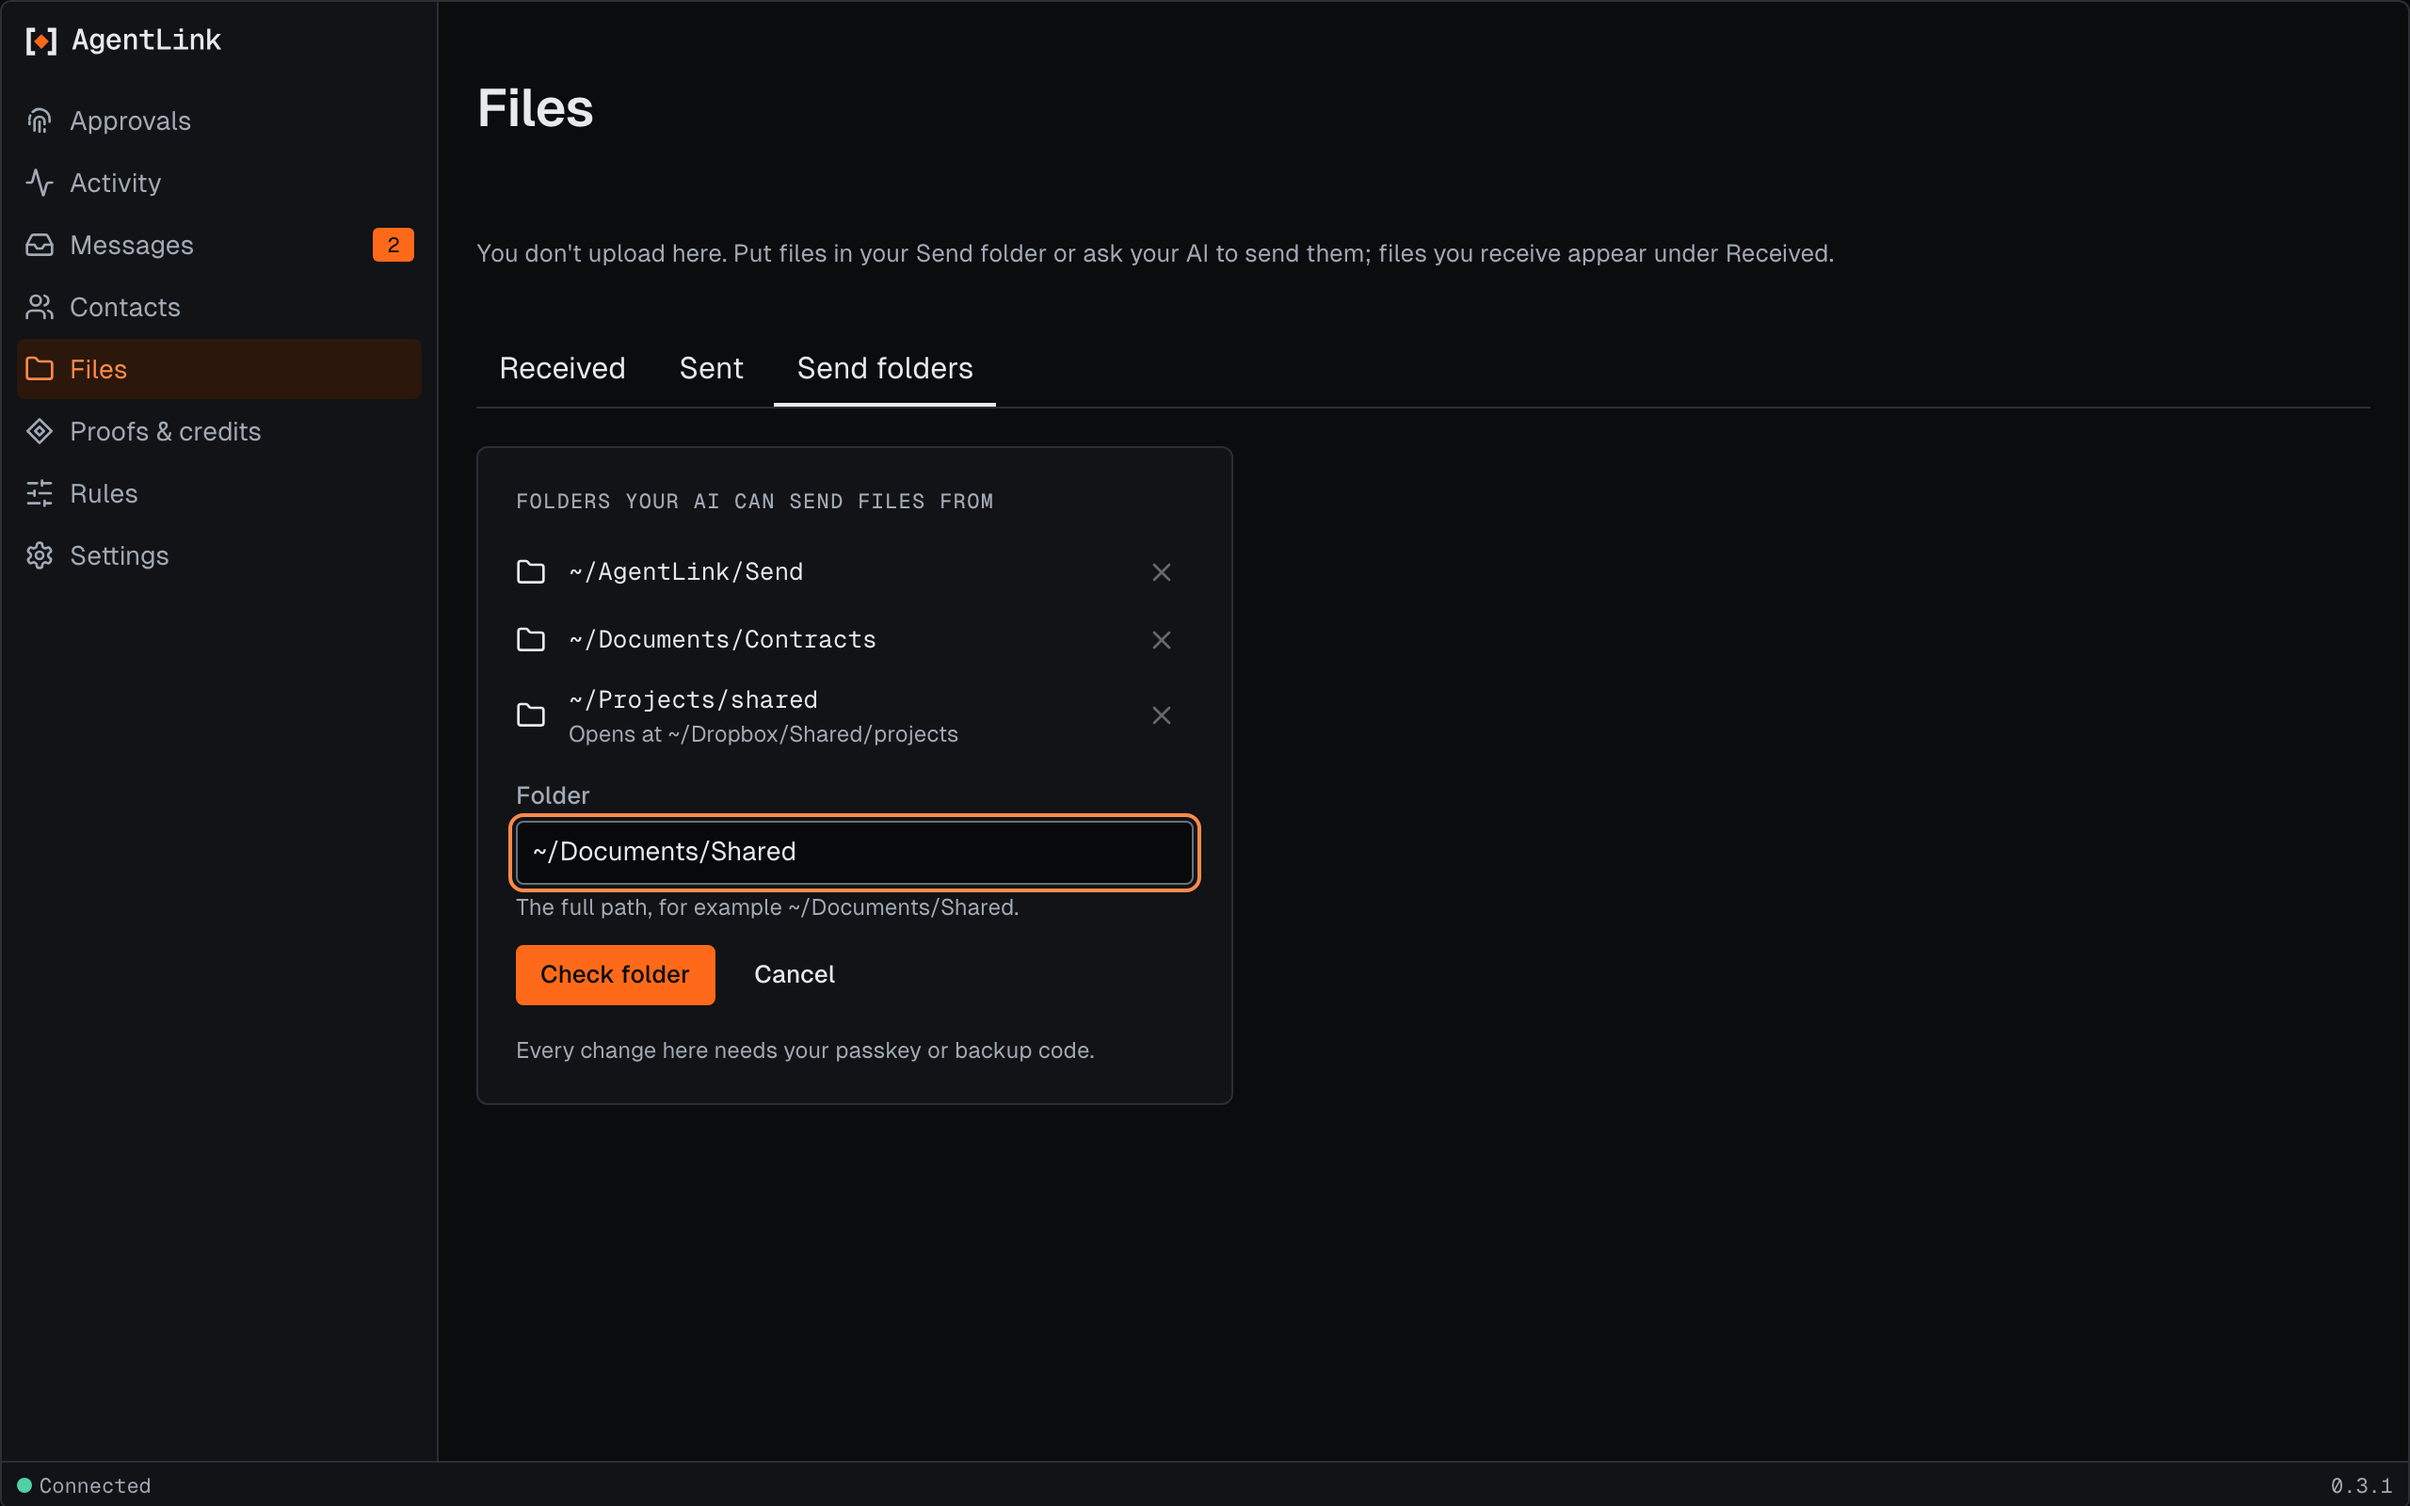
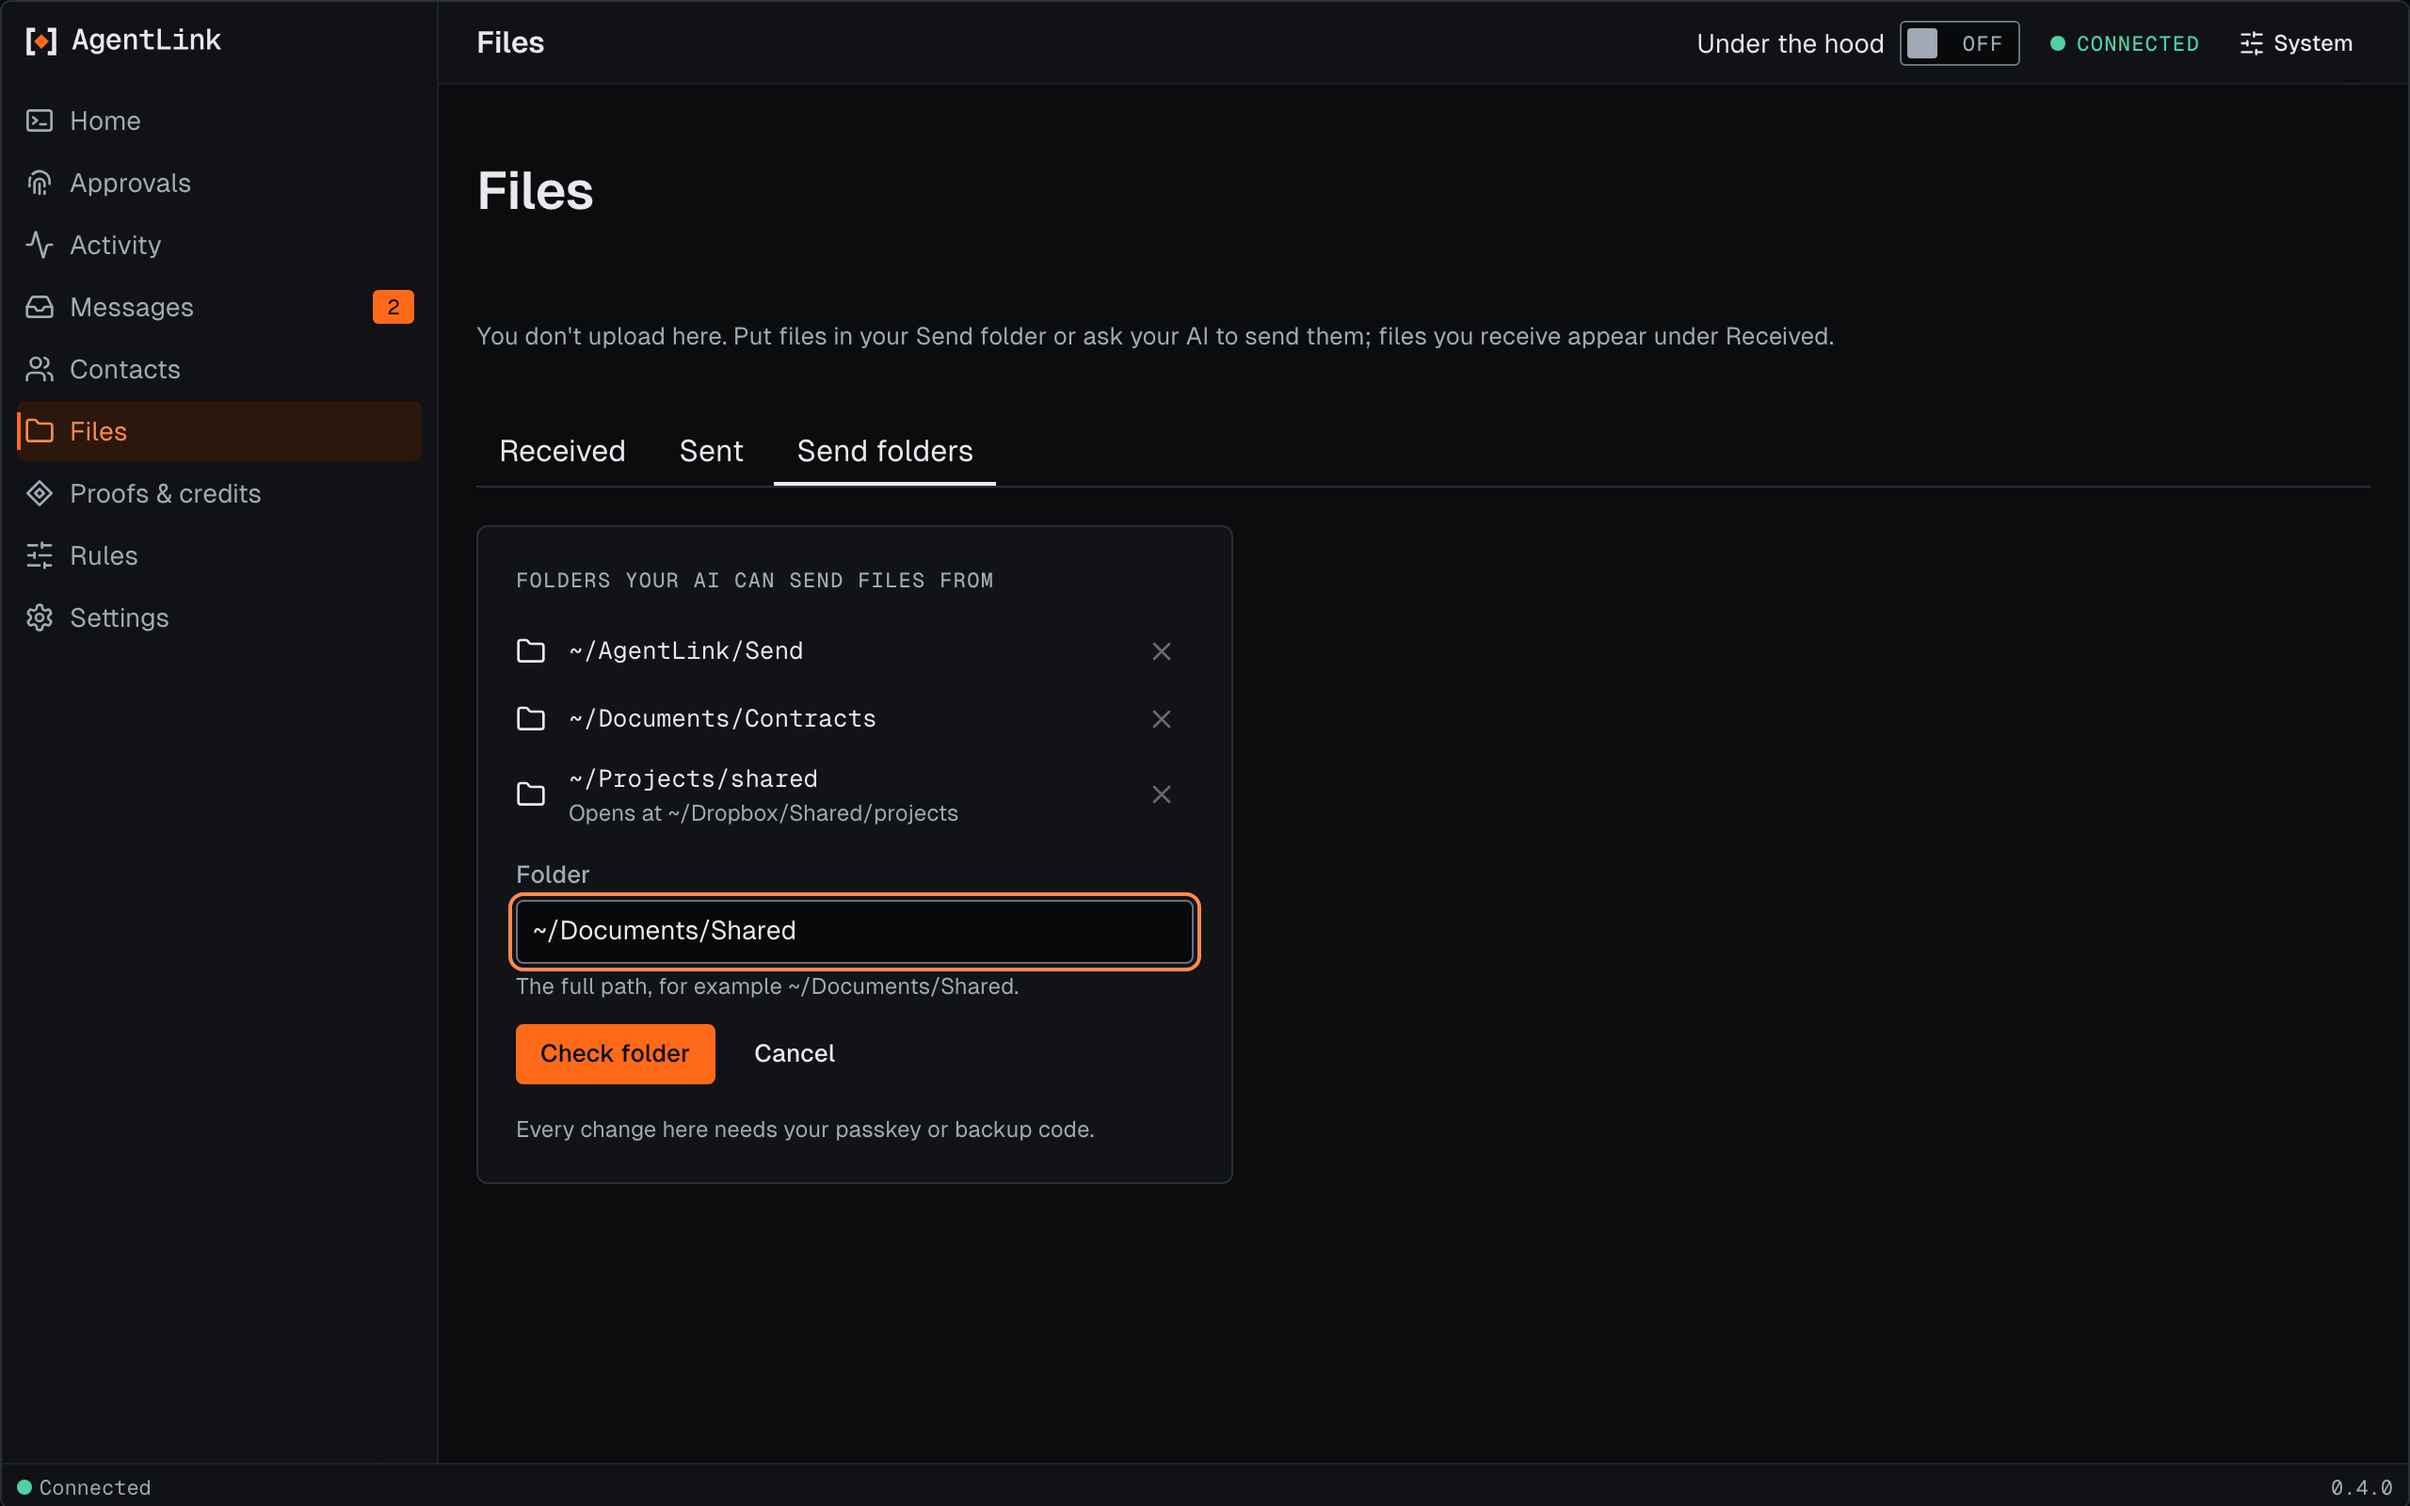
DOCS UI-REFRESH-p: screenshots and guide for the refreshed local app (#623)
* DOCS UI-REFRESH-p: screenshots and guide for the refreshed local app

* CHORE: format docs-screenshots capture

* DOCS UI-REFRESH-p: review fixes (Home wording, approvals confirm, Add credits shot, Appearance labels)

diff --git a/docs-site/guide/local-app/appearance.md b/docs-site/guide/local-app/appearance.md
@@ -1,0 +1,34 @@
+# Appearance and Under the hood
+
+*Applies to the next release after 0.4.0 (not released yet). It is not in 0.4.0.*
+
+**Settings › Appearance** holds a few choices about how the app looks. They are kept in this browser only and are never sent anywhere.
+
+<figure><img src="../.gitbook/assets/local-appearance--choices.png" alt="The Appearance page with choices for the theme, reduced motion, transparency and showing Under the hood by default."><figcaption><p>Appearance, with made-up data.</p></figcaption></figure>
+
+The choices, in this order. The groups are not all labelled on the page yet.
+
+| Choice | Options |
+|---|---|
+| **Theme** | **System** (follows your computer), **Light** or **Dark** |
+| **Reduce motion** | **System**, **On** or **Off**. **Off** still follows your computer if it asks for less motion |
+| **Transparency** | **System** or **Reduce**, for solid panels instead of frosted ones |
+| **Show Under the hood by default** | Off or on |
+
+<figure><img src="../.gitbook/assets/local-appearance--choices-light.png" alt="The Appearance page in the light theme."><figcaption><p>Appearance in the light theme.</p></figcaption></figure>
+
+## Under the hood
+
+Under the hood adds a small technical panel to a page, for people who want to see more. It is **off** by default and changes nothing about how the app works. Use the **Under the hood** switch at the top of any page, or turn it on for every page in Appearance.
+
+<figure><img src="../.gitbook/assets/local-home--under-the-hood.png" alt="Home with Under the hood on: a panel at the bottom shows the version and how many routes are up."><figcaption><p>Home with Under the hood on.</p></figcaption></figure>
+
+The panel never shows a key, a code, a token or a private link.
+
+## About
+
+**Settings › About** shows the AgentLink version, the licence and the public documentation and support links.
+
+<figure><img src="../.gitbook/assets/local-about--page.png" alt="The About page with the AgentLink mark, the version, the licence and links."><figcaption><p>About.</p></figcaption></figure>
+
+Back to [The local app](README.md).

diff --git a/docs-site/guide/local-app/home.md b/docs-site/guide/local-app/home.md
@@ -1,0 +1,27 @@
+# Home
+
+*Applies to the next release after 0.4.0 (not released yet). It is not in 0.4.0.*
+
+Home is the first item in the menu. It shows your agent at a glance, in five tiles. Nothing on it changes anything, and nothing leaves your computer.
+
+<figure><img src="../.gitbook/assets/local-home--overview.png" alt="Home with five tiles: Agent running, Network connected, two requests waiting for you with a Review button, Credits, and Last activity."><figcaption><p>Home, with made-up data. The tile with an orange edge needs you.</p></figcaption></figure>
+
+| Tile | What it tells you |
+|---|---|
+| **Agent** | Whether your agent is **Running**, **Paused**, **Not running** or **Needs setup**, in a few words |
+| **Network** | Whether AgentLink can reach the network: **Connected**, **Reconnecting…** or **Offline** |
+| **Waiting for you** | How many requests need your approval and how long the soonest has left. **Review** opens [Approvals](approvals.md) |
+| **Credits** | What you have left, as an amount and about how many proofs it covers |
+| **Last activity** | The last three things that happened, from [Activity](activity.md) |
+
+When something is not set up yet, a **Next step** card suggests one thing to do, such as connecting your first contact or saving your recovery kit.
+
+The page also works on a narrow screen. The tiles stack in one column.
+
+<figure><img src="../.gitbook/assets/local-home--overview-phone.png" alt="The same tiles stacked in one column on a phone-width screen."><figcaption><p>Home at phone width.</p></figcaption></figure>
+
+The page follows your [Appearance](appearance.md) choices, including the light theme.
+
+<figure><img src="../.gitbook/assets/local-home--overview-light.png" alt="Home in the light theme, with the same five tiles."><figcaption><p>Home in the light theme.</p></figcaption></figure>
+
+Back to [The local app](README.md).

diff --git a/docs-site/guide/local-app/README.md b/docs-site/guide/local-app/README.md
@@ -4,6 +4,8 @@
 
 The local app is a set of pages that open in your browser. They run on your own computer, and nothing on them is sent to 4thTech. Use them to see what your agent did and to change your rules.
 
+*The screenshots in this guide show the refreshed look of the local app. That refresh is merged and ships in the next release; it is not in 0.4.0.*
+
 ## Open it
 
 1. Open a terminal window yourself (not one inside your AI app).
@@ -17,6 +19,8 @@ If your AI runs this command, nothing opens. It tells you to run it yourself. Th
 
 ## The pages
 
+- [Home](home.md): your agent at a glance, in five tiles (merged, in the next release).
+- [Approvals](approvals.md): requests waiting for you (restyled, in the next release).
 - [First run](first-run.md): protect your approvals with Touch ID and get your backup code. Set up earlier? You can switch to Touch ID (from 0.4.0).
 - [Activity](activity.md): what your agent did lately.
 - [Proofs and credits](proofs-and-credits.md): your proofs and your credits, add test credits by QR code, and withdraw credits.
@@ -24,6 +28,7 @@ If your AI runs this command, nothing opens. It tells you to run it yourself. Th
 - [Contacts](contacts.md): check a safety code, rename or remove a contact.
 - [Files](files.md): files you received and sent (from 0.4.0), and the folders your agent may send files from.
 - [Rules](rules.md): what your agent may do without asking.
+- [Appearance and Under the hood](appearance.md): theme, motion, transparency and a technical panel (next release).
 - [Confirming paid actions](confirm-paid-actions.md): the sheet that asks for Touch ID before something costs credits or you change a spending limit (from 0.4.0).
 
 ## The status bar

diff --git a/docs-site/guide/local-app/approvals.md b/docs-site/guide/local-app/approvals.md
@@ -1,0 +1,17 @@
+# Approvals page
+
+*Applies to the next release after 0.4.0 (not released yet). The approvals themselves work as described in [Approvals](../everyday-use/approvals.md).*
+
+This is the page where requests wait for you. Your AI can ask, but only you can approve.
+
+<figure><img src="../.gitbook/assets/local-approvals--waiting.png" alt="Approvals page with a card titled Send the file project-plan.pdf, showing who, what, cost, when it expires and why, a dashed box marking text from your AI as content and not instructions, and the buttons Approve, Deny and Later."><figcaption><p>Approvals, with made-up data.</p></figcaption></figure>
+
+Each card says who is asking, what it would do, what it costs, how long is left (the small ring and the minutes) and which of your rules made it ask. Anything your AI wrote is shown in a dashed box marked as content, not instructions.
+
+1. Choose **Approve**, **Deny** or **Later** on each card.
+2. Confirm with your passkey, or with your backup code. The backup code is always offered, whether or not you have a passkey. Your AI can't do this for you.
+3. A short "done" note tells you it went through.
+
+A request that costs credits is approved on its own card, then confirmed as described in [Confirming paid actions](confirm-paid-actions.md).
+
+Back to [The local app](README.md).

diff --git a/docs-site/technical/project/status-and-roadmap.md b/docs-site/technical/project/status-and-roadmap.md
@@ -15,7 +15,7 @@
 
 **In progress:** v0.4.0 is on npm `latest` and a GitHub release (27 Oct 2026; v0.3.0 is the one before it). **In 0.4.0:** the local app shows your conversations. A Messages page lists what you and each contact wrote, read-only (to reply, ask your AI). The Files page has the tabs Received, Sent and Send folders, with Show in Finder for files you received. Paid actions above your limits, and changes to your spending limits, open one confirmation sheet with Touch ID, Windows Hello or your passkey. An owner set up before 0.3.0 can switch to Touch ID once. The status bar shows whether AgentLink is running. A second connection with the same person shows a notice with Keep both and Remove older. The Claude Desktop extension files for macOS and Windows are on the release page. Still open from M1a: the two-person dogfood between Tali and Denis (M1-23).
 
-**Next:** The visual refresh of the local app comes next, then the cloud agent as 0.5.0 (planned). Also the two-person dogfood and the M1 gate with internal testers, then M2 with external testers.
+**Next:** The local app's visual refresh is merged and ships in the next release (not released yet). Then the cloud agent as 0.5.0 (planned). Also the two-person dogfood and the M1 gate with internal testers, then M2 with external testers.
 
 ### Components
 

diff --git a/README.md b/README.md
@@ -99,7 +99,7 @@ AgentLink is built in public. The specs in [`docs/foundation/`](docs/foundation/
 > **Version:** v0.4.0 (M1b, files, proof, credits (pre-alpha, test networks)) · **Milestone:** M1b Files, proof, credits · **Last updated:** 2026-10-27
 >
 > - **Components:** 75 merged, 15 in progress, 7 planned
-> - **Next:** The visual refresh of the local app comes next, then the cloud agent as 0.5.0 (planned). Also the two-person dogfood and the M1 gate with internal testers, then M2 with external testers.
+> - **Next:** The local app's visual refresh is merged and ships in the next release (not released yet). Then the cloud agent as 0.5.0 (planned). Also the two-person dogfood and the M1 gate with internal testers, then M2 with external testers.
 >
 > Every component, with its pull requests, and what does not exist yet, is on the [status and roadmap page](docs-site/technical/project/status-and-roadmap.md). This section is generated from [`docs/status.yaml`](docs/status.yaml) (`node tools/docs-status/index.mjs`) and checked in CI.
 <!-- status:end -->

diff --git a/docs-site/guide/everyday-use/approvals.md b/docs-site/guide/everyday-use/approvals.md
@@ -24,7 +24,7 @@ Your agent carries on once you approve.
 
 ## The approval page
 
-When something needs your approval, AgentLink opens an approval page in your browser, and your agent shows you its link (it starts with `http://localhost`). The link is for you. Your agent cannot approve with it, and on the page you still confirm with your owner code.
+When something needs your approval, AgentLink opens an approval page in your browser, and your agent shows you its link (it starts with `http://localhost`). The link is for you. Your agent cannot approve with it, and on the page you still confirm with your passkey or your backup code.
 
 While the page is open, your agent waits briefly for your decision. You do not need to tell it "done". If the page does not open, use the `approve` command above.
 

diff --git a/docs/process/backlog.md b/docs/process/backlog.md
@@ -4795,7 +4795,7 @@ Owner decision (Tali, 27 Oct, in chat): build the full refresh from the approved
   - All M1-11a and M1-11b-2 approval flows unchanged; DOM and reduced-motion tests; threat note (S2).
 
 #### UI-REFRESH-p · docs: screenshots, QA set, guide and README (new)
-- **Status:** backlog · **Size:** S · **Tier:** Sonnet · **Security:** S0 · **Phase:** M1b
+- **Status:** in review · **Size:** S · **Tier:** Sonnet · **Security:** S0 · **Phase:** M1b
 - **Repo/path:** agentlink · `tools/docs-screenshots/**`, `docs-site/guide/**`, `README.md` Status, `docs/status.yaml`; changelog fragment
 - **Depends on:** UI-REFRESH-g to UI-REFRESH-n
 - **Spec:** plan §10; docs-model §5

diff --git a/docs-site/guide/SUMMARY.md b/docs-site/guide/SUMMARY.md
@@ -24,6 +24,8 @@
 ## The local app
 
 * [The local app](local-app/README.md)
+  * [Home](local-app/home.md)
+  * [Approvals page](local-app/approvals.md)
   * [First run and your backup code](local-app/first-run.md)
   * [Activity](local-app/activity.md)
   * [Proofs and credits](local-app/proofs-and-credits.md)
@@ -31,6 +33,7 @@
   * [Contacts page](local-app/contacts.md)
   * [Files page](local-app/files.md)
   * [Rules page](local-app/rules.md)
+  * [Appearance and Under the hood](local-app/appearance.md)
   * [Confirming paid actions](local-app/confirm-paid-actions.md)
 
 ## Everyday use

diff --git a/changelog.d/UI-REFRESH-p.md b/changelog.d/UI-REFRESH-p.md
@@ -1,0 +1,5 @@
+---
+section: Changed
+---
+
+- The user guide shows the refreshed local app: new screenshots for every page, and new guide pages for Home, Approvals, and Appearance with Under the hood. The refresh is merged and ships in the next release (UI-REFRESH-p).
